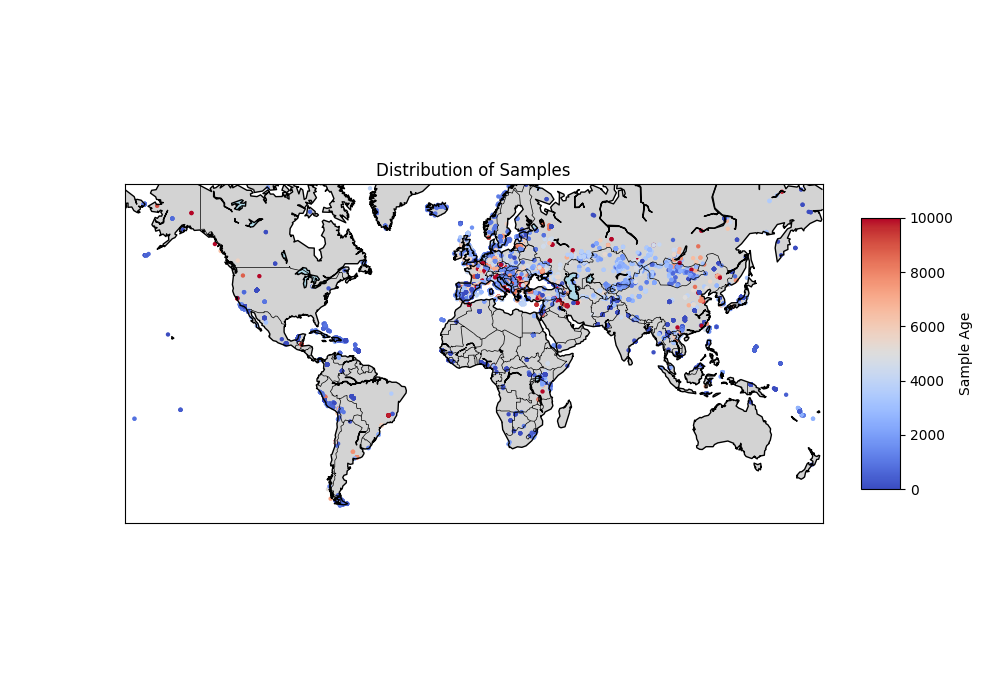
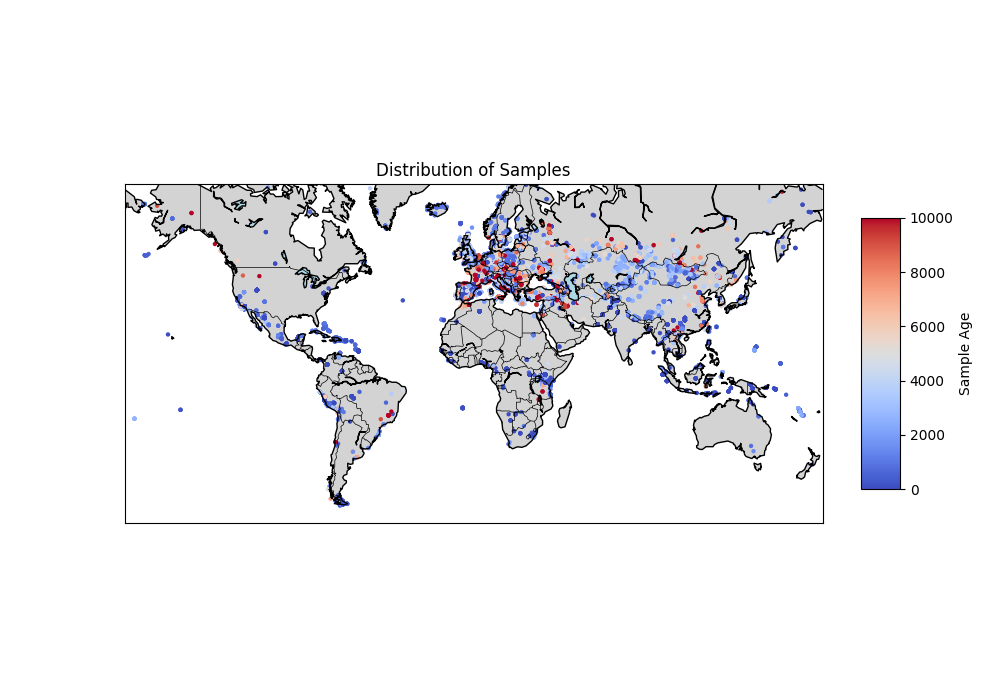
histogram, location plots with v62 data

diff --git a/scripts/plot_locations.py b/scripts/plot_locations.py
@@ -3,7 +3,7 @@ import pandas as pd
 from mpl_toolkits.basemap import Basemap
 
 # Replace 'path_to_your_file.txt' with the path to your tab-separated file
-file_path = '../data/aadr_v54.1.p1_1240K_public.anno'
+file_path = '../../adna_retrieval_conversion/ancestrymap/v62.0_1240k_public.anno'
 
 age_col = 'Date mean in BP in years before 1950 CE [OxCal mu for a direct radiocarbon date, and average of range for a contextual date]'
 

diff --git a/scripts/plot_histogram.py b/scripts/plot_histogram.py
@@ -4,7 +4,7 @@ import matplotlib.pyplot as plt
 import pandas as pd
 
 # Replace 'path_to_your_file.txt' with the path to your tab-separated file
-file_path = '../data/aadr_v54.1.p1_1240K_public.anno'
+file_path = '../../adna_retrieval_conversion/ancestrymap/v62.0_1240k_public.anno'
 
 age_col = 'Date mean in BP in years before 1950 CE [OxCal mu for a direct radiocarbon date, and average of range for a contextual date]'
 

diff --git a/readme.md b/readme.md
@@ -4,7 +4,7 @@
 
 This project utilizes basic neural network architectures to
 analyze ancient DNA data sourced from the
-[Allen Ancient DNA Resource](https://reich.hms.harvard.edu/allen-ancient-dna-resource-aadr-downloadable-genotypes-present-day-and-ancient-dna-data).
+[Allen Ancient DNA Resource](https://reich.hms.harvard.edu/allen-ancient-dna-resource-aadr-downloadable-genotypes-present-day-and-ancient-dna-data) version 62.0.
 Our primary objective is to create a visual representation—a movie—that illustrates how different genetic variants have
 spread and evolved across Europe and Eurasia over time. The aim is to gain an exploratory understanding of genetic
 variation in ancient DNA and its change over time.
@@ -15,7 +15,7 @@ The data for this project was sourced from the Allen Ancient DNA Repository and 
 the following [scripts](https://github.com/davidmoser/adna_retrieval_conversion). The age of the sampled individuals
 ranges from contemporary to a hundred thousand years ago.
 To concentrate on the bulk of the ancient data it was filtered from 100 year old samples to 10'000 year old samples,
-resulting in 9'716 individuals used for learning.
+resulting in 13'208 individuals used for learning.
 
 ![Sample locations on a map](./results/adna_locations_on_map_small.png)
 
